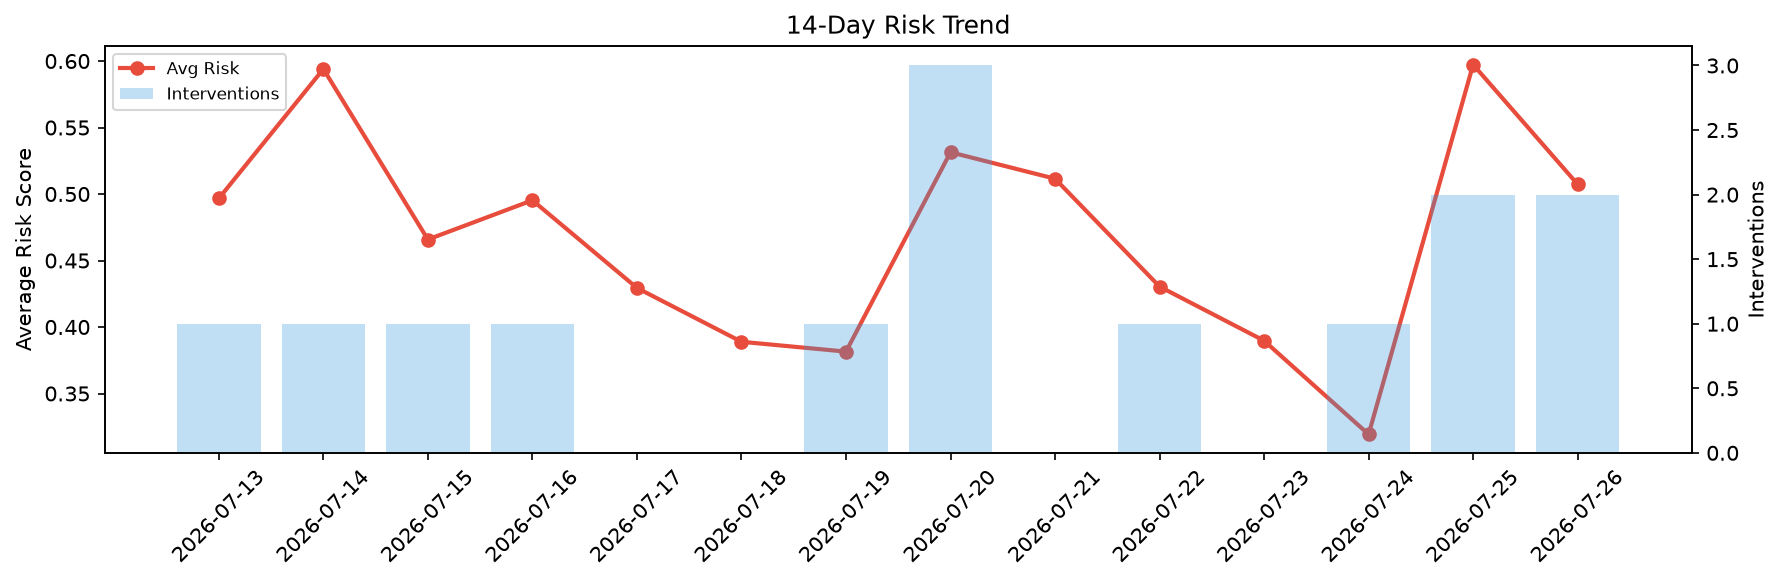
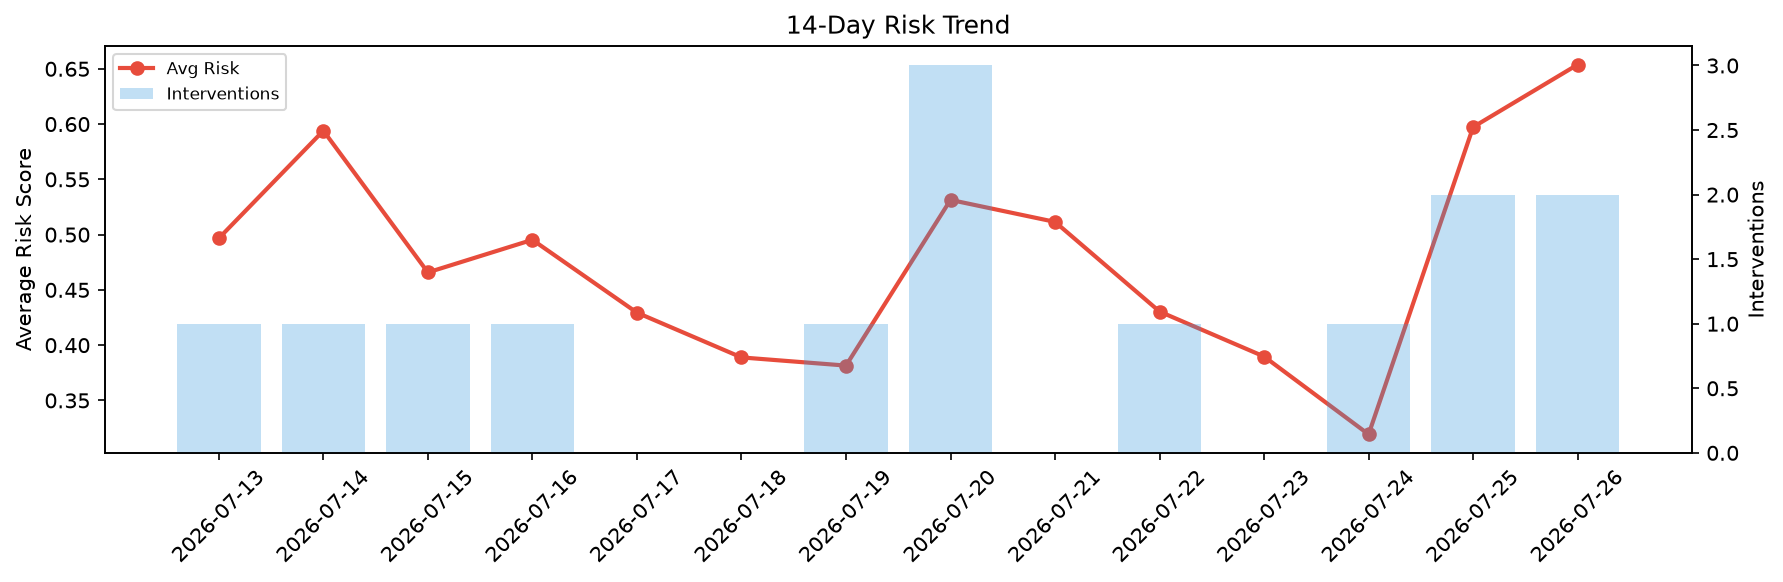
agent-improvement: daily cycle 2026-07-26T21:10

diff --git a/logs/2026-07-26.md b/logs/2026-07-26.md
@@ -1,6 +1,6 @@
 # Agent Improvement Report — 2026-07-26
 
-**Cycle ID:** `b17d8b0e` | **Avg Risk:** 0.5073 | **Interventions:** 2/4
+**Cycle ID:** `fbdb784c` | **Avg Risk:** 0.6538 | **Interventions:** 2/4
 
 ![Dashboard](2026-07-26_dashboard.png)
 
@@ -10,18 +10,18 @@
 
 | Domain | Risk Score | Decision | Alerts |
 |--------|-----------|----------|--------|
-| code_review | 0.4459 | monitor | none |
-| incident_response | 0.602 | intervene | blast_radius |
-| data_pipeline | 0.771 | intervene | schema_drift, volume_anomaly |
-| deployment | 0.2102 | monitor | none |
+| code_review | 0.7913 | intervene | complexity |
+| incident_response | 0.5887 | monitor | severity |
+| data_pipeline | 0.3528 | monitor | none |
+| deployment | 0.8823 | intervene | rollback_rate, canary_error, latency_p99 |
 
 ## Delta vs Yesterday
 
 | Domain | Today | Yesterday | Change |
 |--------|-------|-----------|--------|
-| code_review | 0.4459 | 0.8827 | 📉 -49.5% |
-| incident_response | 0.602 | 0.5617 | 📈 7.2% |
-| data_pipeline | 0.771 | 0.7518 | 📈 2.6% |
-| deployment | 0.2102 | 0.1928 | 📈 9.0% |
+| code_review | 0.7913 | 0.8827 | 📉 -10.4% |
+| incident_response | 0.5887 | 0.5617 | 📈 4.8% |
+| data_pipeline | 0.3528 | 0.7518 | 📉 -53.1% |
+| deployment | 0.8823 | 0.1928 | 📈 357.6% |
 
-**Refinement:** `{'adjustment': 'maintain', 'trend': 'improving', 'window': 4}`
+**Refinement:** `{'adjustment': 'tighten_thresholds', 'trend': 'degrading', 'window': 4}`
